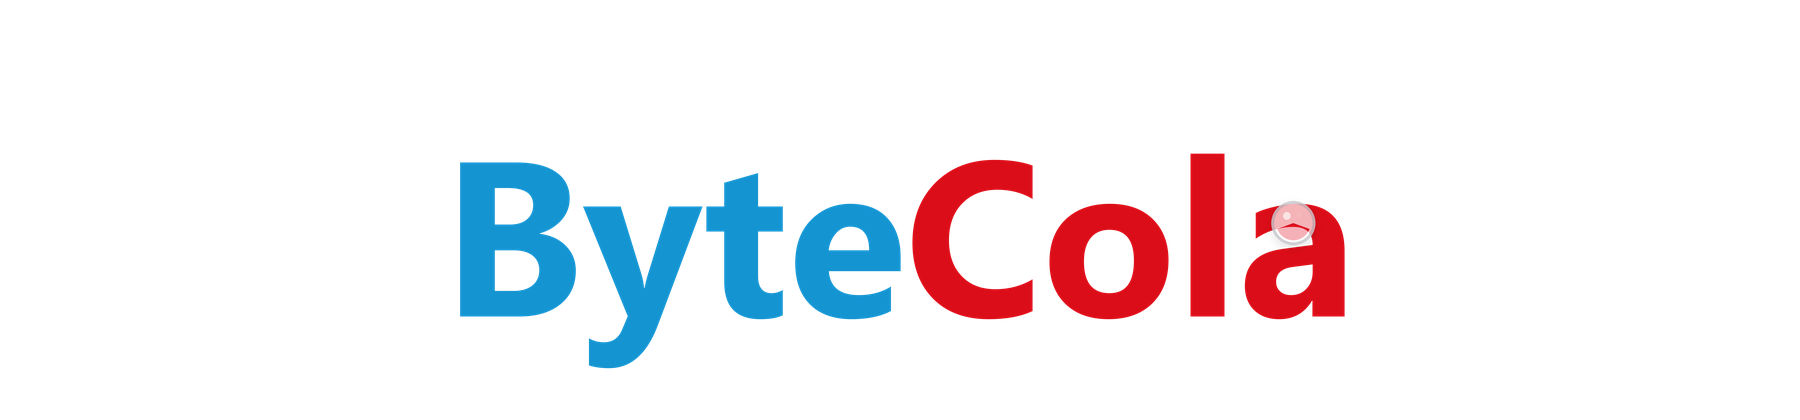
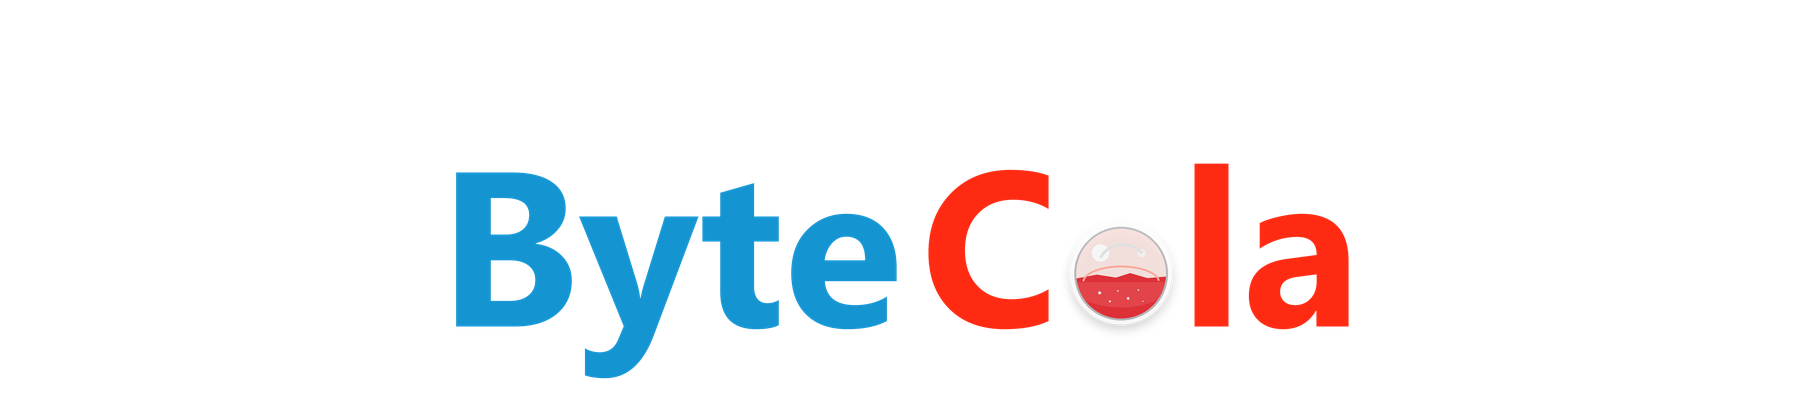
Refine ByteCola wordmark bubble

Changed region(s): [[0.2489, 0.3405, 0.7467, 0.8048], [0.3111, 0.8048, 0.3733, 0.8976]]

diff --git a/DESIGN.md b/DESIGN.md
@@ -14,7 +14,7 @@ The ByteCola logo is built from three ideas:
 
 - `Byte` represents the digital layer and uses Byte Blue.
 - `Cola` represents instant refreshment and uses Cola Red.
-- The bubble is the brand signal, integrated into the final `a` or the app icon instead of floating as a detached red dot.
+- The bubble is the brand signal, replacing the lowercase `o` in `Cola` as a glossy cola bubble and integrating into the app icon when space is compact.
 
 The bubble should read as carbonation, lightness, and "ready now." It must not look like an alert badge, error state, or notification dot.
 
@@ -29,8 +29,8 @@ Rules:
 - Use the horizontal wordmark on home pages, about pages, marketing sections, and larger authentication screens.
 - Keep the transparent background intact.
 - Keep `Byte` blue and `Cola` red.
-- Keep the bubble attached to the terminal `a` area.
-- Do not place the bubble after the wordmark as a detached decorative dot.
+- Render the lowercase `o` in `Cola` as a glossy cola bubble with a subtle glass rim, red liquid surface, small carbonation dots, and restrained highlights.
+- Keep the bubble optically aligned with the neighboring `C` and `l` so it reads as the word's `o`, not as a decorative sticker.
 
 ### Logo Mark
 
@@ -74,13 +74,13 @@ Cola Red is a brand color, not a warning color. Use it to express cola, energy, 
 Do:
 
 - Use Cola Red for the `Cola` letters in the primary wordmark.
-- Use small red-tinted refraction inside the bubble.
+- Use small red-tinted refraction inside the bubble and keep outlines subtle in the primary wordmark.
 - Use it sparingly for high-emphasis brand moments.
 
 Do not:
 
 - Use Cola Red as a generic error color in product UI.
-- Use a detached red dot that can be mistaken for an alert badge.
+- Use a flat red dot that can be mistaken for an alert badge.
 - Use large red backgrounds unless the layout is explicitly promotional.
 
 ## Typography
